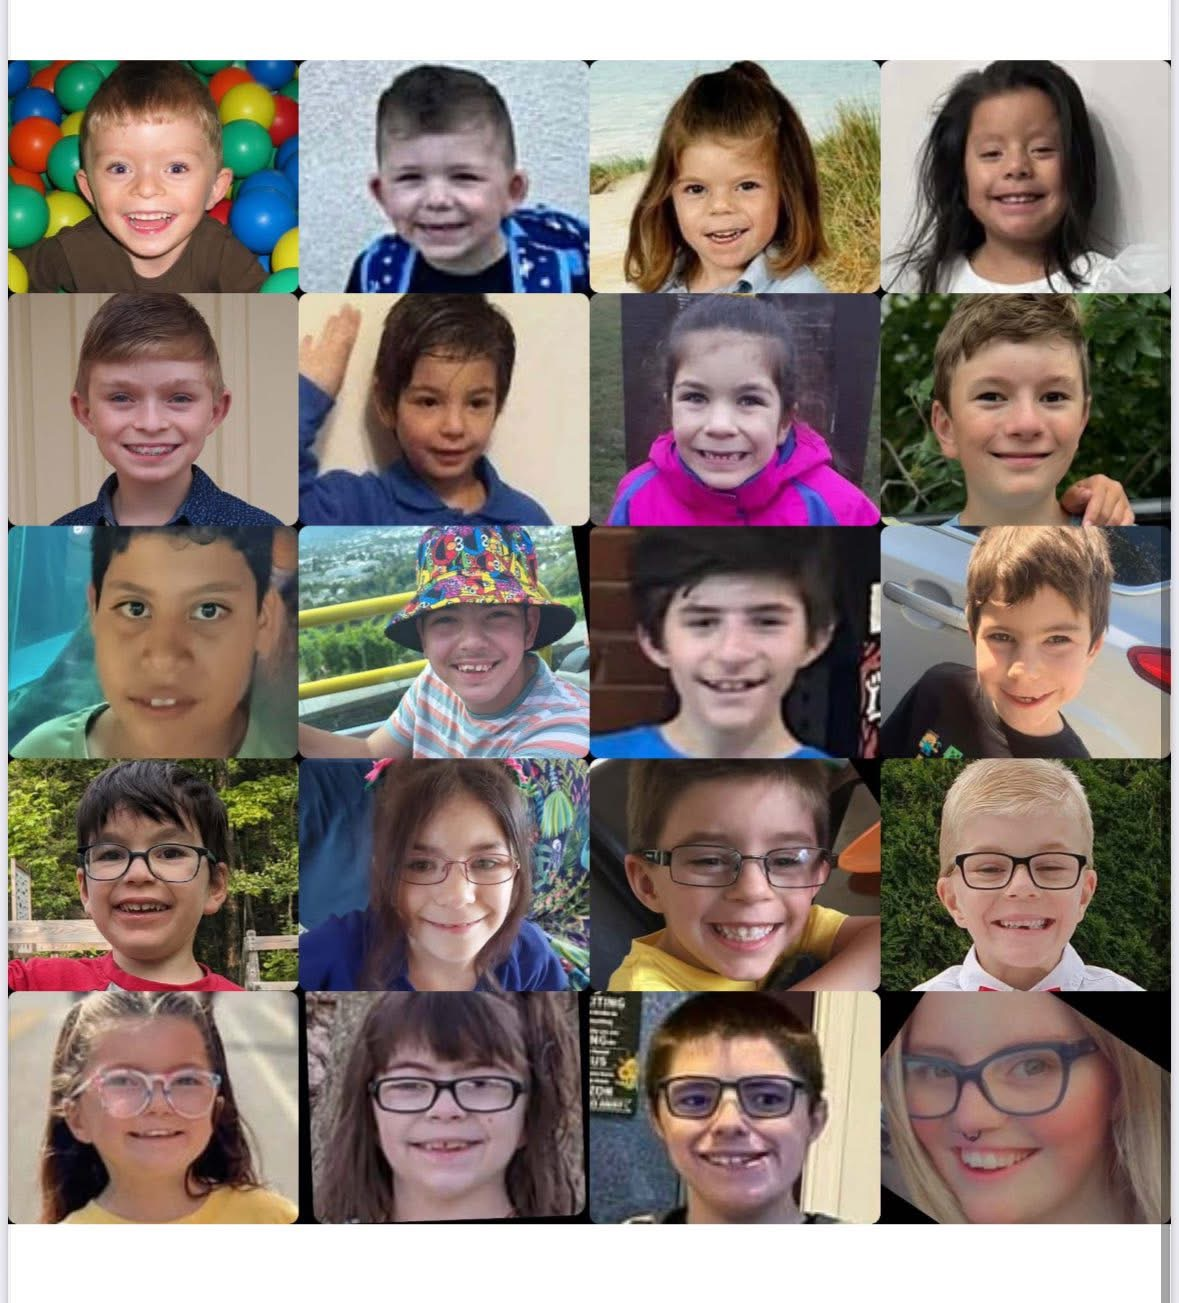
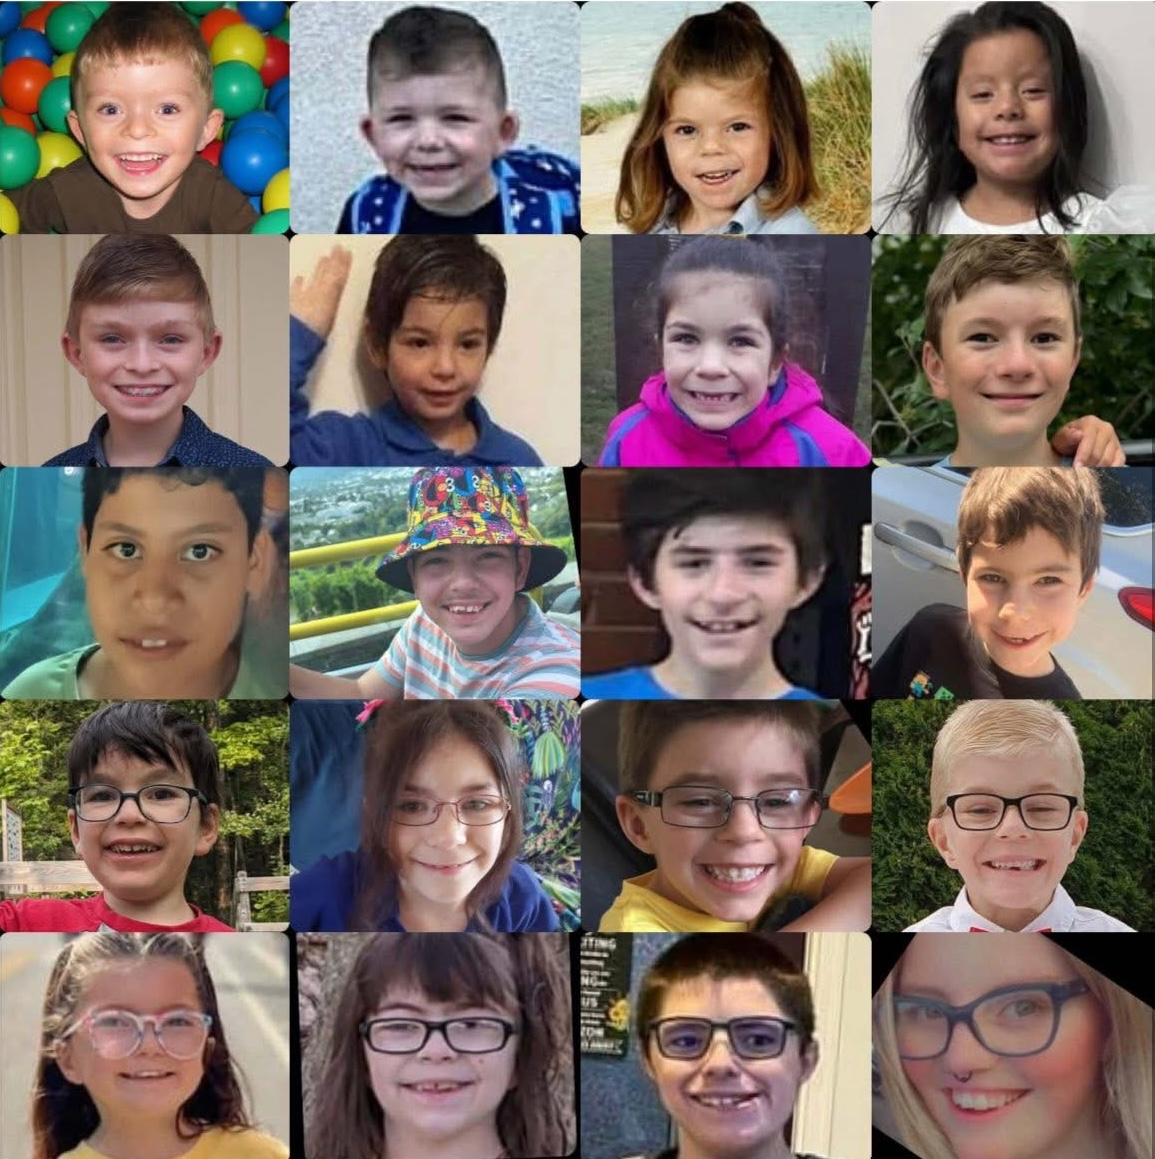
Update community photos and constrain image height

diff --git a/index.html b/index.html
@@ -992,9 +992,9 @@ footer {
     <div class="container">
       <div class="what-is-grid">
         <div class="what-is-visual" style="padding:0; background:none; display:flex; flex-direction:column; gap:8px;">
-          <img src="IMG_9551.JPG" alt="Children with SETD5 Syndrome" style="width:100%; border-radius:12px; display:block; object-fit:cover;">
-          <img src="IMG_9552.JPG" alt="Children with SETD5 Syndrome" style="width:100%; border-radius:12px; display:block; object-fit:cover;">
-          <img src="IMG_9553.JPG" alt="Children with SETD5 Syndrome" style="width:100%; border-radius:12px; display:block; object-fit:cover;">
+          <img src="IMG_9551.JPG" alt="Children with SETD5 Syndrome" style="width:100%; max-height:160px; border-radius:12px; display:block; object-fit:cover; object-position:center top;">
+          <img src="IMG_9552.JPG" alt="Children with SETD5 Syndrome" style="width:100%; max-height:160px; border-radius:12px; display:block; object-fit:cover; object-position:center top;">
+          <img src="IMG_9553.JPG" alt="Children with SETD5 Syndrome" style="width:100%; max-height:160px; border-radius:12px; display:block; object-fit:cover; object-position:center top;">
         </div>
         <div class="what-is-content">
           <span class="subhead">What is SETD5 Syndrome?</span>
